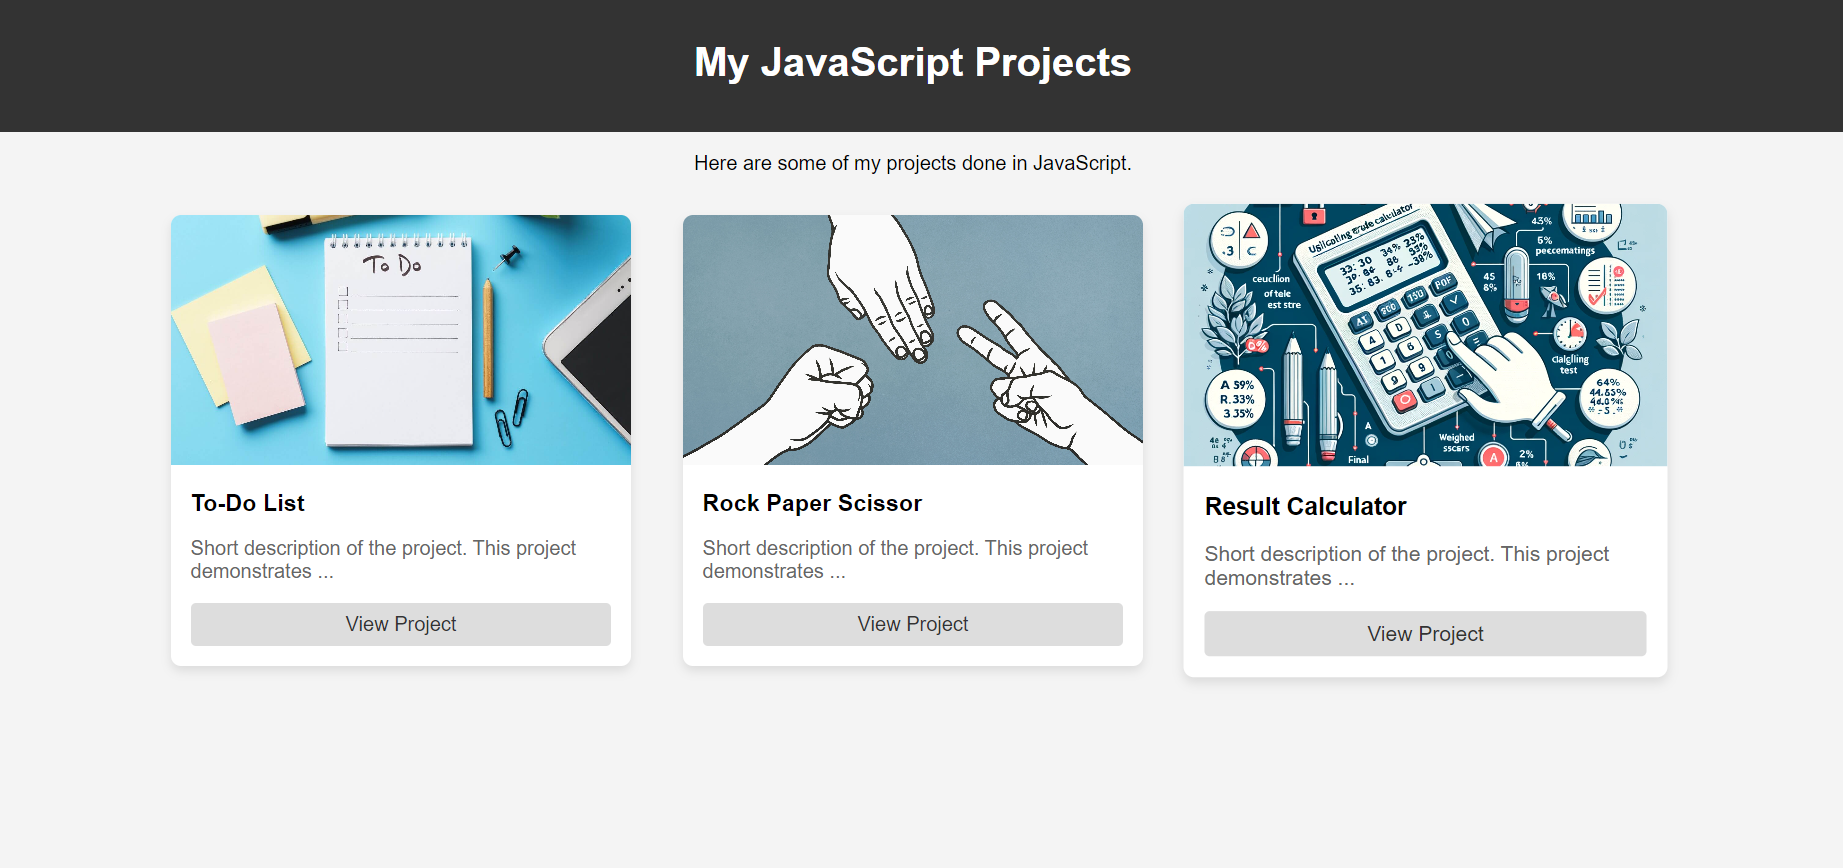
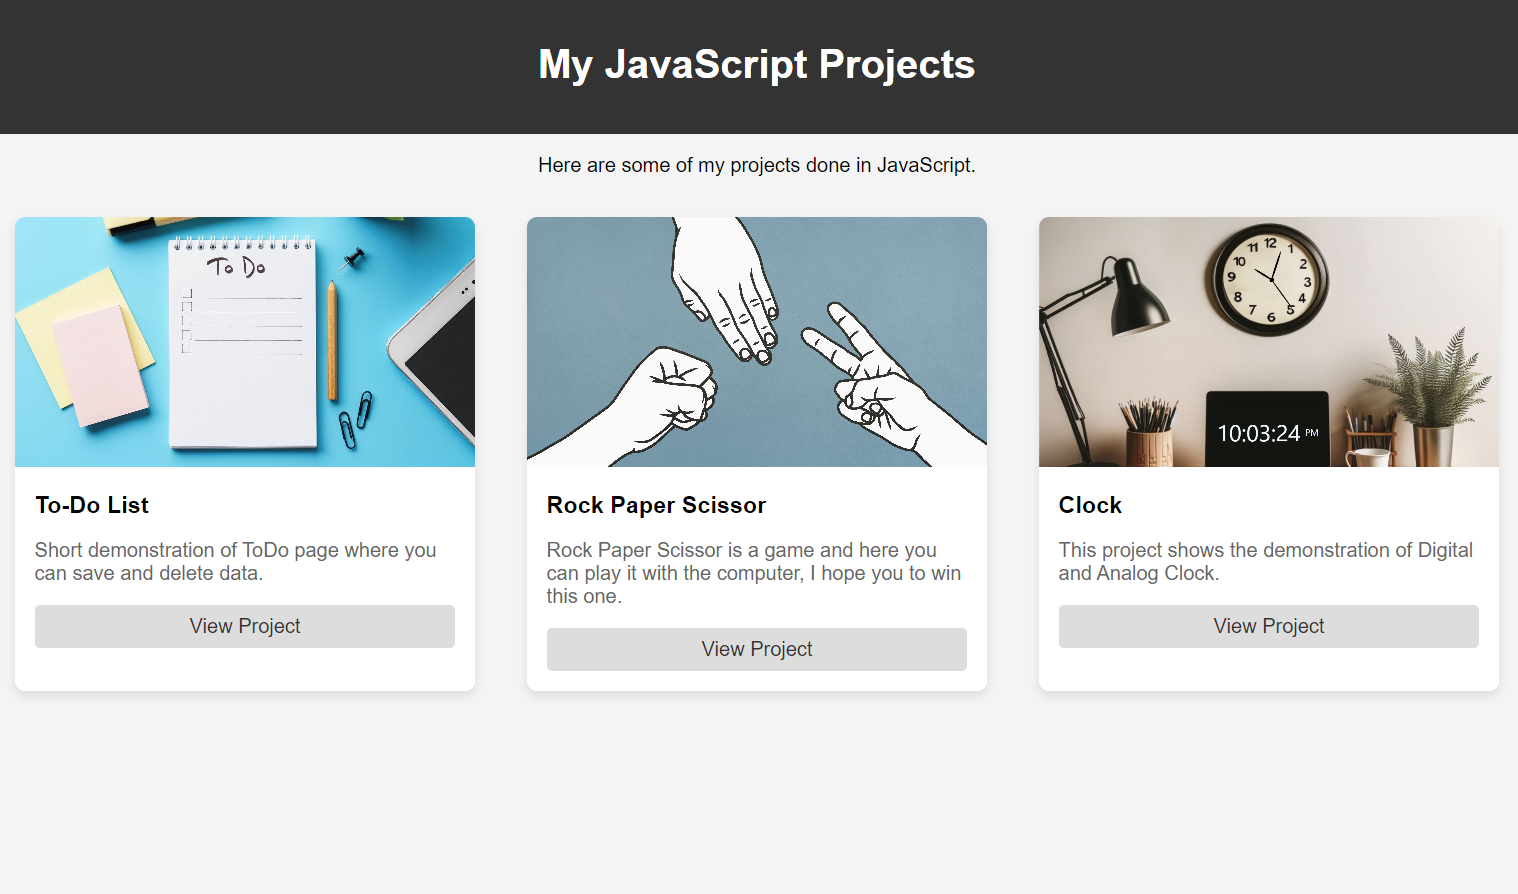
Js showcase updated

Changed region(s): [[0.0, 0.1555, 0.9908, 0.7776], [0.3406, 0.0311, 0.6502, 0.0933]]

diff --git a/Projects/JS showcase/index.html b/Projects/JS showcase/index.html
@@ -1,0 +1,103 @@
+<!DOCTYPE html>
+<html lang="en">
+<head>
+    <meta charset="UTF-8">
+    <meta name="viewport" content="width=device-width, initial-scale=1.0">
+    <title>My JavaScript Projects</title>
+    <link rel="stylesheet" href="styles.css">
+    <style>
+        body {
+            font-family: Arial, sans-serif;
+            margin: 0;
+            padding: 0;
+            background-color: #f4f4f4;
+        }
+        header {
+            background-color: #333;
+            color: #fff;
+            padding: 1rem 0;
+            text-align: center;
+        }
+        .container {
+            width: 80%;
+            margin: 0 auto;
+        }
+        .info
+        {
+            text-align: center;
+        }
+        .projects {
+            display: flex;
+            flex-wrap: wrap;
+            justify-content: space-around;
+            margin-top: 2rem;
+        }
+        .project-card {
+            background-color: #fff;
+            box-shadow: 0 4px 8px rgba(0,0,0,0.1);
+            width: 30%;
+            margin-bottom: 2rem;
+            border-radius: 8px;
+            overflow: hidden;
+            transition: transform 0.2s;
+        }
+        .project-card:hover {
+            transform: scale(1.05);
+        }
+        .project-card img {
+            width: 100%;
+            height: 200px;
+            object-fit: cover;
+        }
+        .project-card h3 {
+            margin: 1rem;
+        }
+        .project-card p {
+            margin: 0 1rem 1rem;
+            color: #666;
+        }
+        .project-card a {
+            display: block;
+            margin: 1rem;
+            text-align: center;
+            text-decoration: none;
+            color: #333;
+            background-color: #ddd;
+            padding: 0.5rem;
+            border-radius: 4px;
+        }
+        .project-card a:hover {
+            background-color: #ccc;
+        }
+    </style>
+</head>
+<body>
+    <header>
+        <h1>My JavaScript Projects</h1>
+    </header>
+    <div class="container">
+        <p class="info">Here are some of my projects done in JavaScript.</p>
+        <section class="projects">
+            <div class="project-card">
+                <img src="https://www.amitree.com/wp-content/uploads/2021/08/the-pros-and-cons-of-paper-to-do-lists.jpeg" alt="Project 1">
+                <h3>To-Do List</h3>
+                <p>Short demonstration of ToDo page where you can save and delete data.</p>
+                <a href="https://sujanpuri.github.io/To-Do/">View Project</a>
+            </div>
+            <div class="project-card">
+                <img src="https://hips.hearstapps.com/hmg-prod/images/people-playing-paper-rock-scissors-royalty-free-illustration-1583269312.jpg" alt="Project 2">
+                <h3>Rock Paper Scissor</h3>
+                <p>Rock Paper Scissor is a game and here you can play it with the computer, I hope you to win this one.</p>
+                <a href="https://sujanpuri.github.io/RPS/">View Project</a>
+            </div>
+            <div class="project-card">
+                <img src="/pro3.png" alt="Project 3">
+                <h3>Clock</h3>
+                <p>This project shows the demonstration of Digital and Analog Clock.</p>
+                <a href="https://sujanpuri.github.io/Clock/">View Project</a>
+            </div>
+            <!-- Add more project cards as needed -->
+        </section>
+    </div>
+</body>
+</html>

diff --git a/Projects/GYM/index.html b/Projects/GYM/index.html
@@ -91,11 +91,11 @@
         <div class="form">
             <div>
                 <p>Name:</p>
-                <input class="input" type="text">
+                <input title="name" class="input" type="text">
             </div>
             <div>
                 <p>Age:</p>
-                <input class="input" type="number" value="20">
+                <input title="age" class="input" type="number" value="20">
             </div>
             <div>
                 <p>Gmail:</p>
